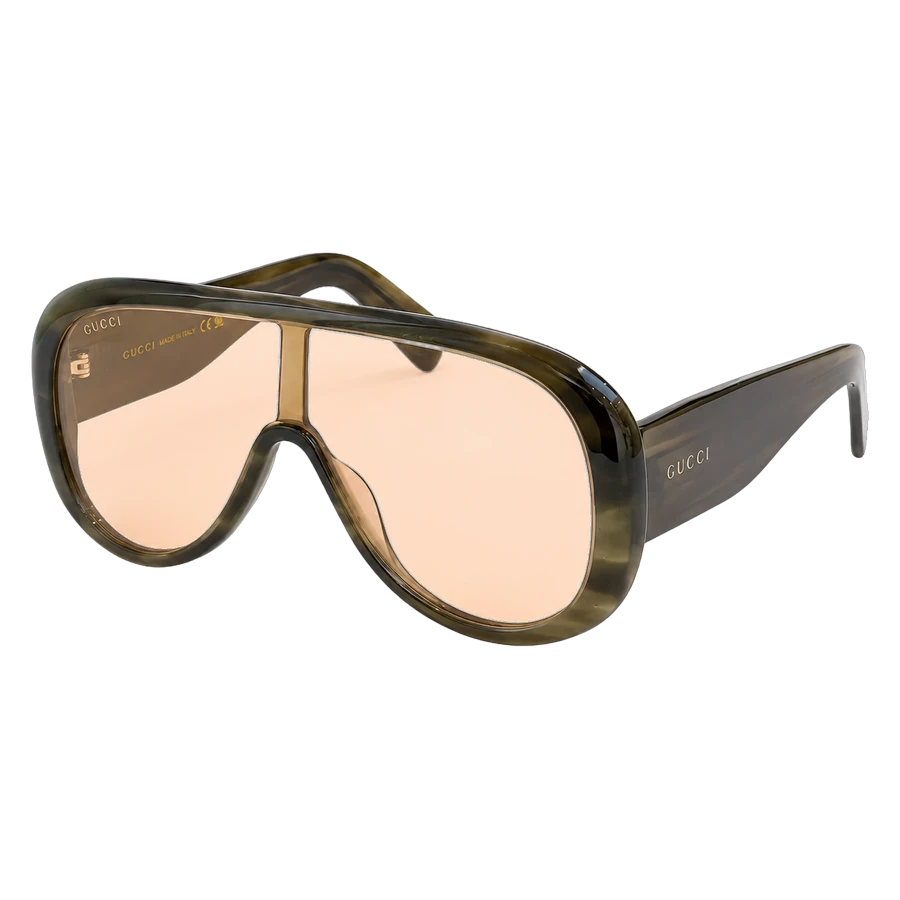
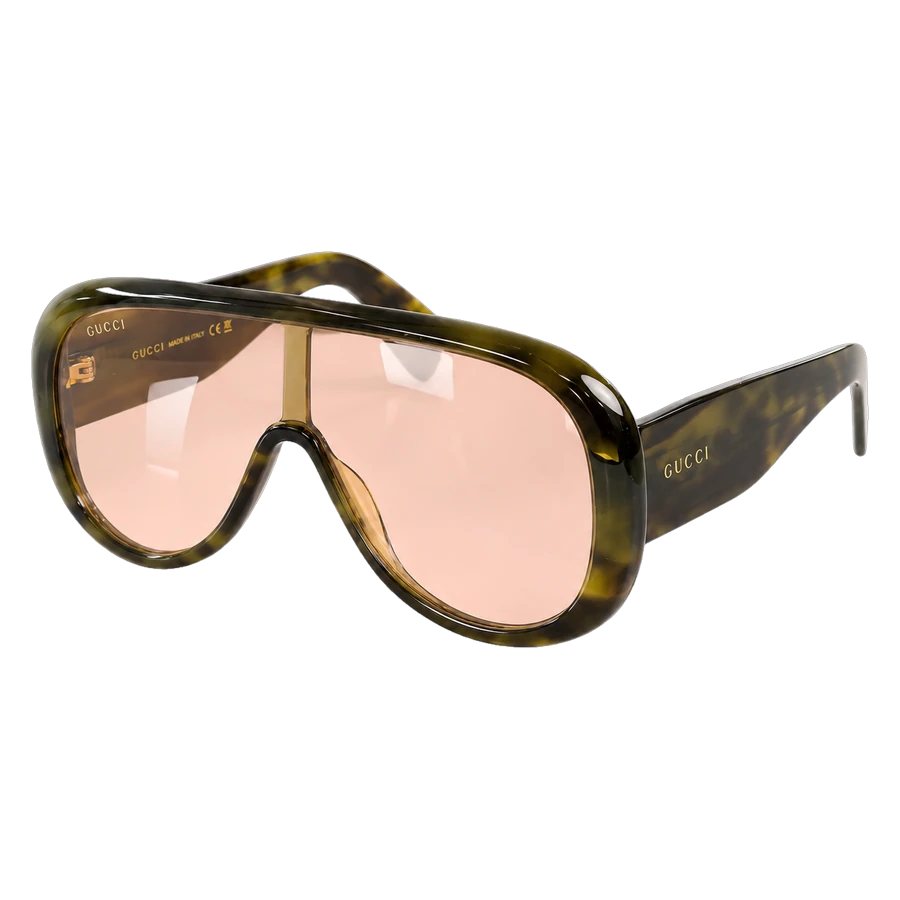
Renders fotorrealistas (reflejos reales en lentes) para las 10 gafas de lujo
Claude-Session: https://claude.ai/code/session_01NqMPgpevLyj3CgQuXcNv1K

Changed region(s): [[0.0311, 0.28, 0.9644, 0.7467]]

diff --git a/app.js b/app.js
@@ -50,7 +50,7 @@ class App extends Component {
       { k: "sport", name: "POC Ciasma", cat: "NIEVE · MÁSCARA", shape: "shield", word: "CIASMA", date: "OCT 2026", ref: "Consultar", short: "Cambio de lente con una mano, puesta.", desc: "Nueva máscara de esquí y snowboard de la colección 26/27 de POC, con sistema de cambio de lente que se opera con una mano sin quitártela.", feats: ["Cambio de lente con una mano", "Esquí y snowboard", "Temporada 26/27"] },
       { k: "sport", name: "SPY Crosspoint", cat: "NIEVE · MÁSCARA", shape: "shield", word: "CROSS", date: "NOV 2026", ref: "Consultar", short: "Su visión más amplia: 194,5°.", desc: "Máscara cilíndrica de SPY para la temporada 26/27 con un campo de visión de 194,5°, el más amplio de la marca.", feats: ["Campo de visión 194,5°", "Lente cilíndrica", "Temporada 26/27"] }
     ];
-    var IMG = ["/img/l01.webp?v=3","/img/l02.webp?v=3","/img/l03.webp?v=3","/img/l04.webp?v=3","/img/l05.webp?v=3","/img/l06.webp?v=3","/img/l07.webp?v=3","/img/l08.webp?v=3","/img/l09.webp?v=3","/img/l10.webp?v=3","/img/g01.webp","/img/g02.webp","/img/g03.webp","/img/g04.webp","/img/g05.webp","/img/g06.webp","/img/g07.webp","/img/g08.webp","/img/g09.webp","/img/g10.webp","/img/g11.webp","/img/g12.webp","/img/g13.webp","/img/g14.webp","/img/g15.webp","/img/g16.webp","/img/g17.webp","/img/g18.webp","/img/g19.webp","/img/g20.webp","/img/g21.webp"];
+    var IMG = ["/img/l01.webp?v=4","/img/l02.webp?v=4","/img/l03.webp?v=4","/img/l04.webp?v=4","/img/l05.webp?v=4","/img/l06.webp?v=4","/img/l07.webp?v=4","/img/l08.webp?v=4","/img/l09.webp?v=4","/img/l10.webp?v=4","/img/g01.webp","/img/g02.webp","/img/g03.webp","/img/g04.webp","/img/g05.webp","/img/g06.webp","/img/g07.webp","/img/g08.webp","/img/g09.webp","/img/g10.webp","/img/g11.webp","/img/g12.webp","/img/g13.webp","/img/g14.webp","/img/g15.webp","/img/g16.webp","/img/g17.webp","/img/g18.webp","/img/g19.webp","/img/g20.webp","/img/g21.webp"];
     var frames = { lux: "#121112", smart: "#14161C", run: "#101418", sport: "#16121A" };
     var idx = { lux: 0, smart: 0, run: 0, sport: 0 };
     P.forEach(function (p, i) { p.i = i; p.isFrame = p.shape === "frame"; p.isShield = p.shape === "shield"; p.g = G[p.k][idx[p.k]++]; p.frame = frames[p.k]; p.img = IMG[i]; });
